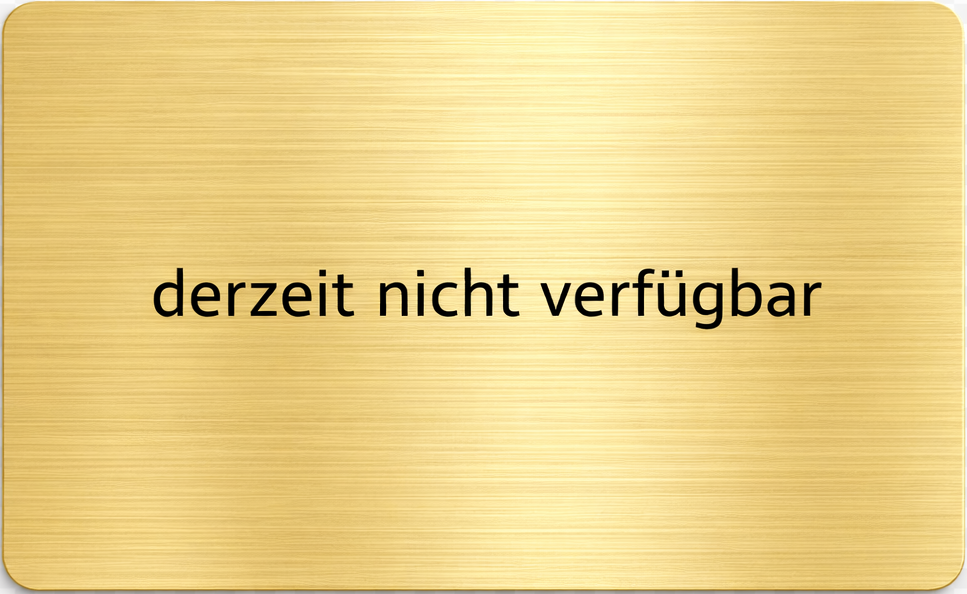
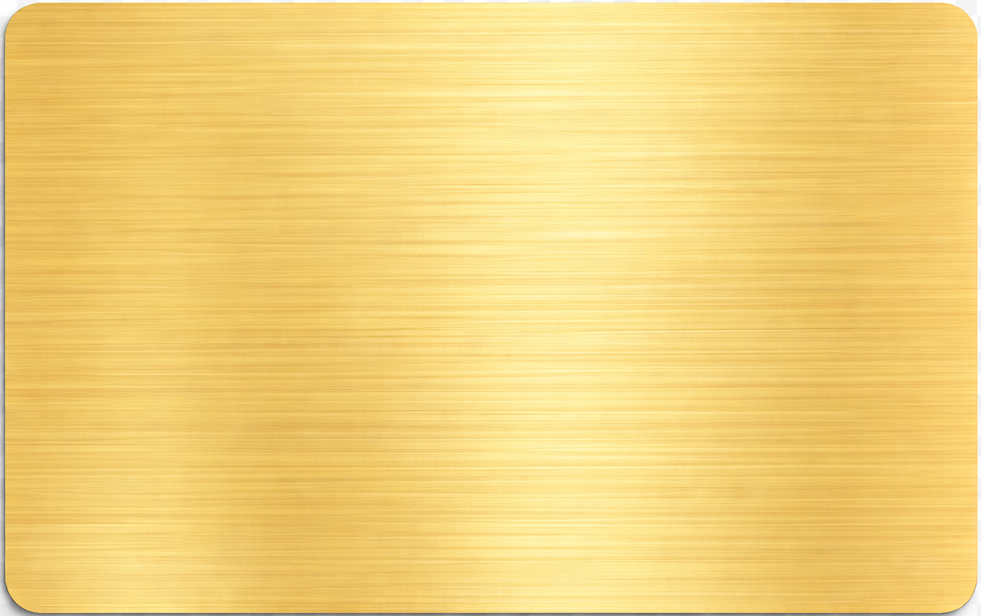
goldene karte is ready

diff --git a/components/MetallkartenEditor.tsx b/components/MetallkartenEditor.tsx
@@ -80,7 +80,7 @@ function getLaserColor(cardFinish: CardFinishKey, side: Side) {
   }
 
   if (cardFinish === 'gold') {
-    return side === 'front' ? '#2b1e05' : '#3a2a0a';
+    return side === 'front' ? '#2d2910' : '#000000';
   }
 
   return '#111111';
